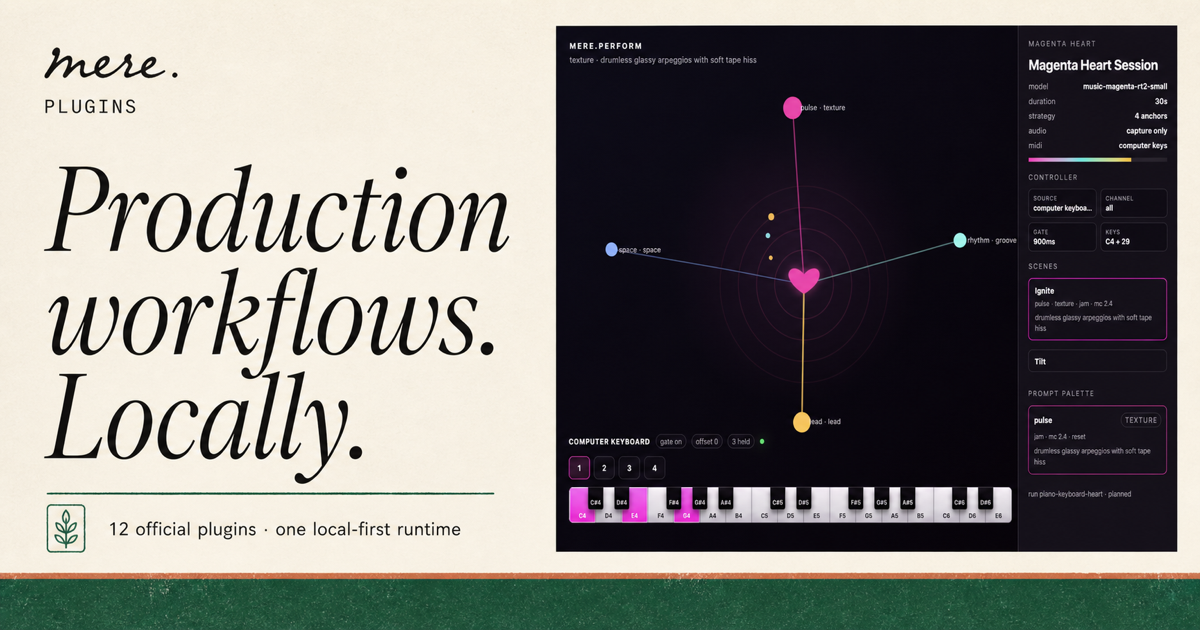
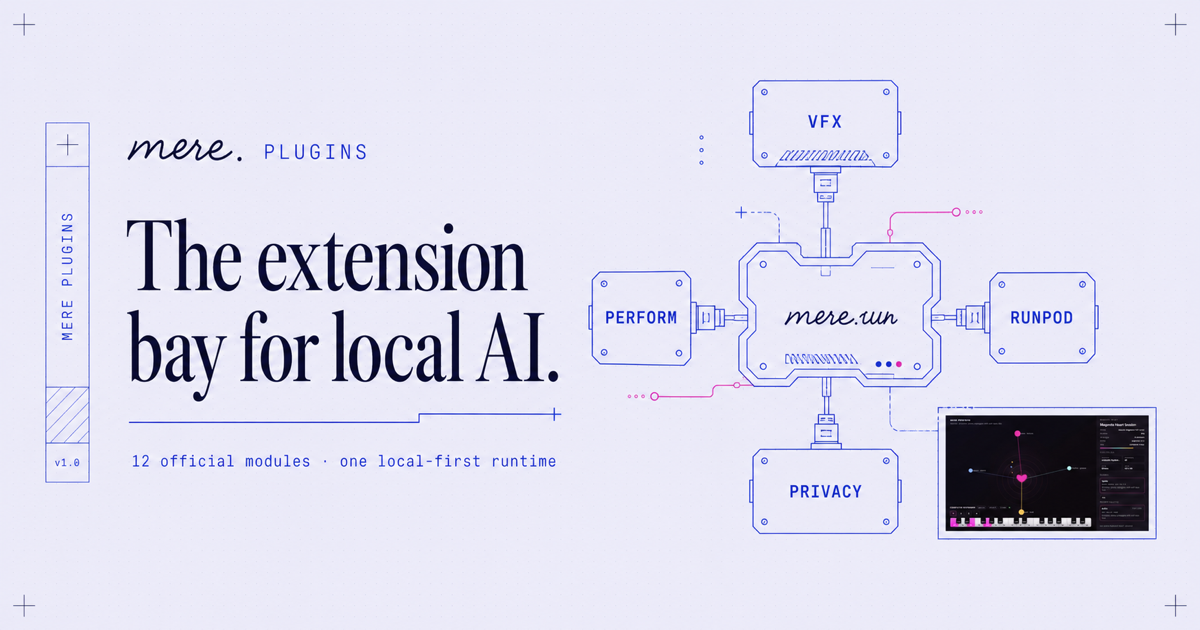
feat: give plugins site a distinct extension-bay identity

diff --git a/site/public/index.html b/site/public/index.html
@@ -5,7 +5,7 @@
   <meta name="viewport" content="width=device-width, initial-scale=1" />
   <title>mere.run plugins — Production workflows for local AI</title>
   <meta name="description" content="Official companion plugins for mere.run: VFX, realtime performance, production tracking, private document workflows, automation, and user-owned GPU training." />
-  <meta name="theme-color" content="#f5f1e8" />
+  <meta name="theme-color" content="#4050c8" />
   <meta property="og:title" content="mere.run plugins — Production workflows for local AI" />
   <meta property="og:description" content="Twelve official companion plugins. One local-first runtime." />
   <meta property="og:type" content="website" />
@@ -186,6 +186,276 @@
       html { scroll-behavior: auto; }
       *,*::before,*::after { transition-duration: .01ms !important; }
     }
+
+    /* Plugins identity: Mere family typography, modular extension-bay system. */
+    :root {
+      --canvas: #f3f2fb;
+      --panel: #ecebf8;
+      --surface: #fbfaff;
+      --ink-strong: #17182b;
+      --ink-base: #31344f;
+      --ink-soft: #666985;
+      --ink-muted: #8588a2;
+      --border: #d8d8ea;
+      --border-light: #e3e2f1;
+      --accent: #4050c8;
+      --accent-deep: #2d3aa8;
+      --accent-soft: #e1e4ff;
+      --warm: #e05ba8;
+      --terminal-prompt: #9ba8ff;
+    }
+    body {
+      background:
+        radial-gradient(circle at 1px 1px, rgba(64,80,200,.08) 1px, transparent 1.5px) 0 0 / 24px 24px,
+        var(--canvas);
+    }
+    .shell { max-width: 1280px; }
+    header.site {
+      position: sticky;
+      z-index: 40;
+      top: 0;
+      height: 68px;
+      border-bottom: 1px solid var(--border);
+      background: rgba(243,242,251,.9);
+      backdrop-filter: blur(14px);
+    }
+    .brand-lockup { gap: 9px; }
+    .brand-label {
+      padding: 5px 8px;
+      border: 1px solid rgba(64,80,200,.28);
+      background: var(--accent-soft);
+      color: var(--accent);
+      letter-spacing: 1.1px;
+    }
+    nav .source-link { border-color: var(--accent); }
+    .btn { position: relative; border-radius: 4px; }
+    .btn::after {
+      content: '';
+      position: absolute;
+      top: 50%;
+      right: -5px;
+      width: 8px;
+      height: 12px;
+      border: 1px solid currentColor;
+      border-left: 0;
+      background: inherit;
+      transform: translateY(-50%);
+    }
+    .btn.ghost::after { background: var(--canvas); }
+    section.hero {
+      grid-template-columns: minmax(0,1.05fr) minmax(520px,.95fr);
+      min-height: 710px;
+      padding: 76px 0 92px;
+    }
+    h1.headline {
+      max-width: 690px;
+      color: var(--ink-strong);
+      font-size: clamp(58px,7.6vw,104px);
+      line-height: .88;
+      letter-spacing: -.025em;
+    }
+    h1.headline .accent { color: var(--accent); }
+    .subtext { max-width: 620px; color: var(--ink-base); }
+    .platform-line {
+      width: fit-content;
+      padding: 10px 13px;
+      border: 1px solid var(--border);
+      background: rgba(251,250,255,.72);
+    }
+    .hero-art {
+      aspect-ratio: auto;
+      min-height: 565px;
+      overflow: visible;
+      border: 1px solid #bfc2e0;
+      border-radius: 7px;
+      background: #e6e7f5;
+      box-shadow: 18px 18px 0 rgba(64,80,200,.12);
+    }
+    .hero-art::before {
+      content: '';
+      position: absolute;
+      inset: 16px;
+      z-index: 0;
+      border: 1px solid rgba(64,80,200,.2);
+      background:
+        linear-gradient(rgba(64,80,200,.07) 1px, transparent 1px),
+        linear-gradient(90deg, rgba(64,80,200,.07) 1px, transparent 1px),
+        #f7f7ff;
+      background-size: 32px 32px;
+    }
+    .hero-art::after { display: none; }
+    .bay-label {
+      position: absolute;
+      z-index: 4;
+      top: 28px;
+      left: 30px;
+      display: flex;
+      align-items: center;
+      gap: 10px;
+      color: var(--accent);
+      font: 10px/1 var(--mono);
+      letter-spacing: 1.3px;
+      text-transform: uppercase;
+    }
+    .bay-label::before { content: ''; width: 7px; height: 7px; border-radius: 50%; background: #36a570; box-shadow: 0 0 0 4px rgba(54,165,112,.13); }
+    .bay-core {
+      position: absolute;
+      z-index: 3;
+      top: 50%;
+      left: 50%;
+      width: 154px;
+      height: 154px;
+      display: grid;
+      place-items: center;
+      border: 2px solid var(--ink-strong);
+      border-radius: 50%;
+      background: var(--ink-strong);
+      color: #fff;
+      font: 500 16px/1 var(--mono);
+      box-shadow: 0 0 0 10px #f7f7ff, 0 0 0 11px rgba(64,80,200,.3);
+      transform: translate(-50%,-50%);
+    }
+    .bay-core span { color: #aeb6ff; }
+    .bay-line { position: absolute; z-index: 1; top: 50%; left: 50%; height: 2px; background: var(--accent); transform-origin: left center; opacity: .6; }
+    .bay-line::after { content: ''; position: absolute; top: -4px; right: -2px; width: 9px; height: 9px; border-radius: 50%; background: var(--warm); }
+    .bay-line.l1 { width: 39%; transform: rotate(-34deg); }
+    .bay-line.l2 { width: 41%; transform: rotate(34deg); }
+    .bay-line.l3 { width: 40%; transform: rotate(146deg); }
+    .bay-line.l4 { width: 40%; transform: rotate(214deg); }
+    .bay-module {
+      position: absolute;
+      z-index: 3;
+      width: 142px;
+      padding: 13px 14px;
+      border: 1px solid #bfc2e0;
+      border-left: 5px solid var(--accent);
+      border-radius: 3px;
+      background: #fbfaff;
+      box-shadow: 5px 5px 0 rgba(23,24,43,.07);
+    }
+    .bay-module b { display: block; margin-bottom: 6px; font: 500 11px/1.2 var(--mono); }
+    .bay-module span { color: var(--ink-muted); font: 9px/1.3 var(--mono); text-transform: uppercase; }
+    .bay-module.m1 { top: 19%; right: 5%; }
+    .bay-module.m2 { right: 4%; bottom: 18%; border-left-color: var(--warm); }
+    .bay-module.m3 { bottom: 17%; left: 4%; border-left-color: #36a570; }
+    .bay-module.m4 { top: 18%; left: 5%; border-left-color: #6c77d9; }
+    .hero-art .credit {
+      right: 28px;
+      bottom: 27px;
+      left: auto;
+      border-radius: 3px;
+      background: var(--ink-strong);
+      color: #c8cae0;
+    }
+
+    section.paths {
+      padding: 0;
+      border-block: 1px solid #252842;
+      background: var(--ink-strong);
+      color: #f6f5ff;
+    }
+    section.paths .section-head { display: none; }
+    .path-grid { grid-template-columns: repeat(3,1fr); gap: 0; }
+    .path-card,
+    .path-card.featured {
+      min-height: 320px;
+      padding: 34px;
+      border: 0;
+      border-right: 1px solid #353853;
+      border-radius: 0;
+      background: transparent;
+      color: #f6f5ff;
+    }
+    .path-card:last-child { border-right: 0; }
+    .path-kicker,
+    .featured .path-kicker { color: #aeb6ff; }
+    .path-card h3 { font-size: 34px; }
+    .path-card p,
+    .featured p { color: #afb1c5; }
+    .path-card .path-link,
+    .featured .path-link { color: #d5d9ff; }
+
+    section.catalog {
+      padding: 108px 0;
+      background: rgba(243,242,251,.86);
+    }
+    .catalog-head { grid-template-columns: 1fr 1fr; padding-bottom: 28px; border-bottom: 2px solid var(--ink-strong); }
+    .plugin-grid { grid-template-columns: repeat(2,minmax(0,1fr)); gap: 14px; counter-reset: plugin-module; }
+    .plugin-card {
+      counter-increment: plugin-module;
+      min-height: 305px;
+      padding: 24px 24px 20px 92px;
+      overflow: hidden;
+      border: 1px solid #cbccdf;
+      border-radius: 4px;
+      background: rgba(251,250,255,.9);
+      box-shadow: none;
+    }
+    .plugin-card::before {
+      content: 'MODULE ' counter(plugin-module, decimal-leading-zero);
+      position: absolute;
+      inset: 0 auto 0 0;
+      width: 66px;
+      display: grid;
+      place-items: center;
+      border-right: 1px solid #cbccdf;
+      background: #e5e6f5;
+      color: var(--accent);
+      font: 500 13px/1 var(--mono);
+      writing-mode: vertical-rl;
+      letter-spacing: 1.4px;
+    }
+    .plugin-card { position: relative; }
+    .plugin-card:hover { border-color: var(--accent); box-shadow: 6px 6px 0 rgba(64,80,200,.13); transform: translate(-2px,-2px); }
+    .plugin-card h3 { margin-top: 25px; font-size: 34px; }
+    .plugin-meta { color: var(--accent); }
+    .plugin-tags span { border-color: #d0d2ea; background: #f0f0fb; }
+    .command { border-radius: 2px; background: #ececf8; }
+    .copy { border-radius: 2px; }
+
+    section.showcase {
+      padding: 108px 0;
+      border-color: #22253e;
+      background: #151629;
+    }
+    section.showcase::before { background: linear-gradient(125deg,rgba(64,80,200,.2),transparent 48%),radial-gradient(60% 50% at 100% 100%,rgba(224,91,168,.14),transparent 60%); }
+    .showcase-tag { color: #aeb6ff; }
+    .showcase-title .accent { color: #ff8bd0; }
+    .proof-grid { grid-template-columns: 1.45fr .75fr; }
+    .proof-card { border-radius: 5px; border-color: #393c5a; background: #202238; }
+    .proof-copy .tag { color: #aeb6ff; }
+    .proof-copy .dark-command { border-radius: 2px; background: #111225; }
+    .proof-copy .dark-command span { color: #ff8bd0; }
+
+    section.contract { padding: 108px 0; background: #e9e9f6; }
+    .terminal { border-radius: 5px; }
+    section.final { padding: 96px 0; border-top: 1px solid #2a2d49; background: var(--ink-strong); color: #f6f5ff; }
+    .final p { color: #b4b6c9; }
+    .final .btn.ghost { border-color: #50536f; color: #fff; }
+    .final .btn.ghost::after { background: var(--ink-strong); }
+    footer.site { border-color: #cfd0e2; }
+
+    @media (max-width: 960px) {
+      section.hero { grid-template-columns: 1fr; }
+      .hero-art { min-height: 540px; }
+      .path-grid { grid-template-columns: 1fr; }
+      .path-card { border-right: 0; border-bottom: 1px solid #353853; }
+      .path-card:last-child { border-bottom: 0; }
+      .proof-grid { grid-template-columns: 1fr; }
+    }
+    @media (max-width: 720px) {
+      .plugin-grid { grid-template-columns: 1fr; }
+      .catalog-head { grid-template-columns: 1fr; }
+    }
+    @media (max-width: 640px) {
+      .hero-art { min-height: 470px; box-shadow: 10px 10px 0 rgba(64,80,200,.12); }
+      .bay-core { width: 112px; height: 112px; font-size: 12px; }
+      .bay-module { width: 112px; padding: 10px; }
+      .bay-module b { font-size: 9.5px; }
+      .bay-module span { font-size: 8px; }
+      .plugin-card { padding-left: 75px; }
+      .plugin-card::before { width: 53px; }
+    }
   </style>
 </head>
 <body>
@@ -210,13 +480,13 @@
       <section class="hero">
         <div>
           <h1 class="headline">
-            <span>Production</span>
-            <span>workflows.</span>
-            <span class="accent">Locally.</span>
+            <span>The extension</span>
+            <span>bay for</span>
+            <span class="accent">local AI.</span>
           </h1>
-          <p class="subtext">Official companion plugins for mere.run.
-VFX, realtime music, production tracking,
-private workflows, automation, and GPU training.</p>
+          <p class="subtext">Plug production workflows into mere.run.
+VFX, realtime performance, review, privacy,
+automation, and user-owned GPU training.</p>
           <div class="hero-cta">
             <a class="btn lg" href="#plugins">Browse plugins</a>
             <a class="btn lg ghost" href="https://github.com/sawfwair/mere-run-plugins/blob/main/docs/plugins/contract.md" target="_blank" rel="noopener">Plugin contract</a>
@@ -229,8 +499,15 @@ private workflows, automation, and GPU training.</p>
             <span class="ready">cleanup by default</span>
           </div>
         </div>
-        <div class="hero-art" role="img" aria-label="The real mere.perform Magenta Heart stage with prompt anchors and a playable keyboard.">
-          <span class="credit"><span class="accent">$</span> mere-perform perform · Magenta Heart · MIDI stage UI</span>
+        <div class="hero-art" role="img" aria-label="A modular extension bay showing plugin workflows connected to the mere.run local runtime.">
+          <div class="bay-label">extension bay // 12 modules online</div>
+          <div class="bay-line l1"></div><div class="bay-line l2"></div><div class="bay-line l3"></div><div class="bay-line l4"></div>
+          <div class="bay-core">mere<span>.run</span></div>
+          <div class="bay-module m1"><b>mere-perform</b><span>realtime · MIDI · stage</span></div>
+          <div class="bay-module m2"><b>mere-runpod</b><span>train · fetch · cleanup</span></div>
+          <div class="bay-module m3"><b>mere-vfx-tools</b><span>roto · depth · geometry</span></div>
+          <div class="bay-module m4"><b>mere-doc-tools</b><span>OCR · redact · private</span></div>
+          <span class="credit"><span class="accent">catalog</span> mere.run/plugin-catalog.v1</span>
         </div>
       </section>
     </main>
@@ -275,8 +552,8 @@ private workflows, automation, and GPU training.</p>
     <div class="shell">
       <div class="catalog-head">
         <div class="section-head">
-          <div class="section-tag">The official catalog</div>
-          <h2 class="section-title">Install only what the workflow needs.</h2>
+          <div class="section-tag">Module index · 12 official plugins</div>
+          <h2 class="section-title">Wire in only what the job needs.</h2>
         </div>
         <p class="catalog-note">Every card below maps to the repository’s live catalog. Inspect the <a href="/catalog/plugins.v1.json">machine-readable source</a> or install through the public <code>mere.run plugin</code> surface.</p>
       </div>